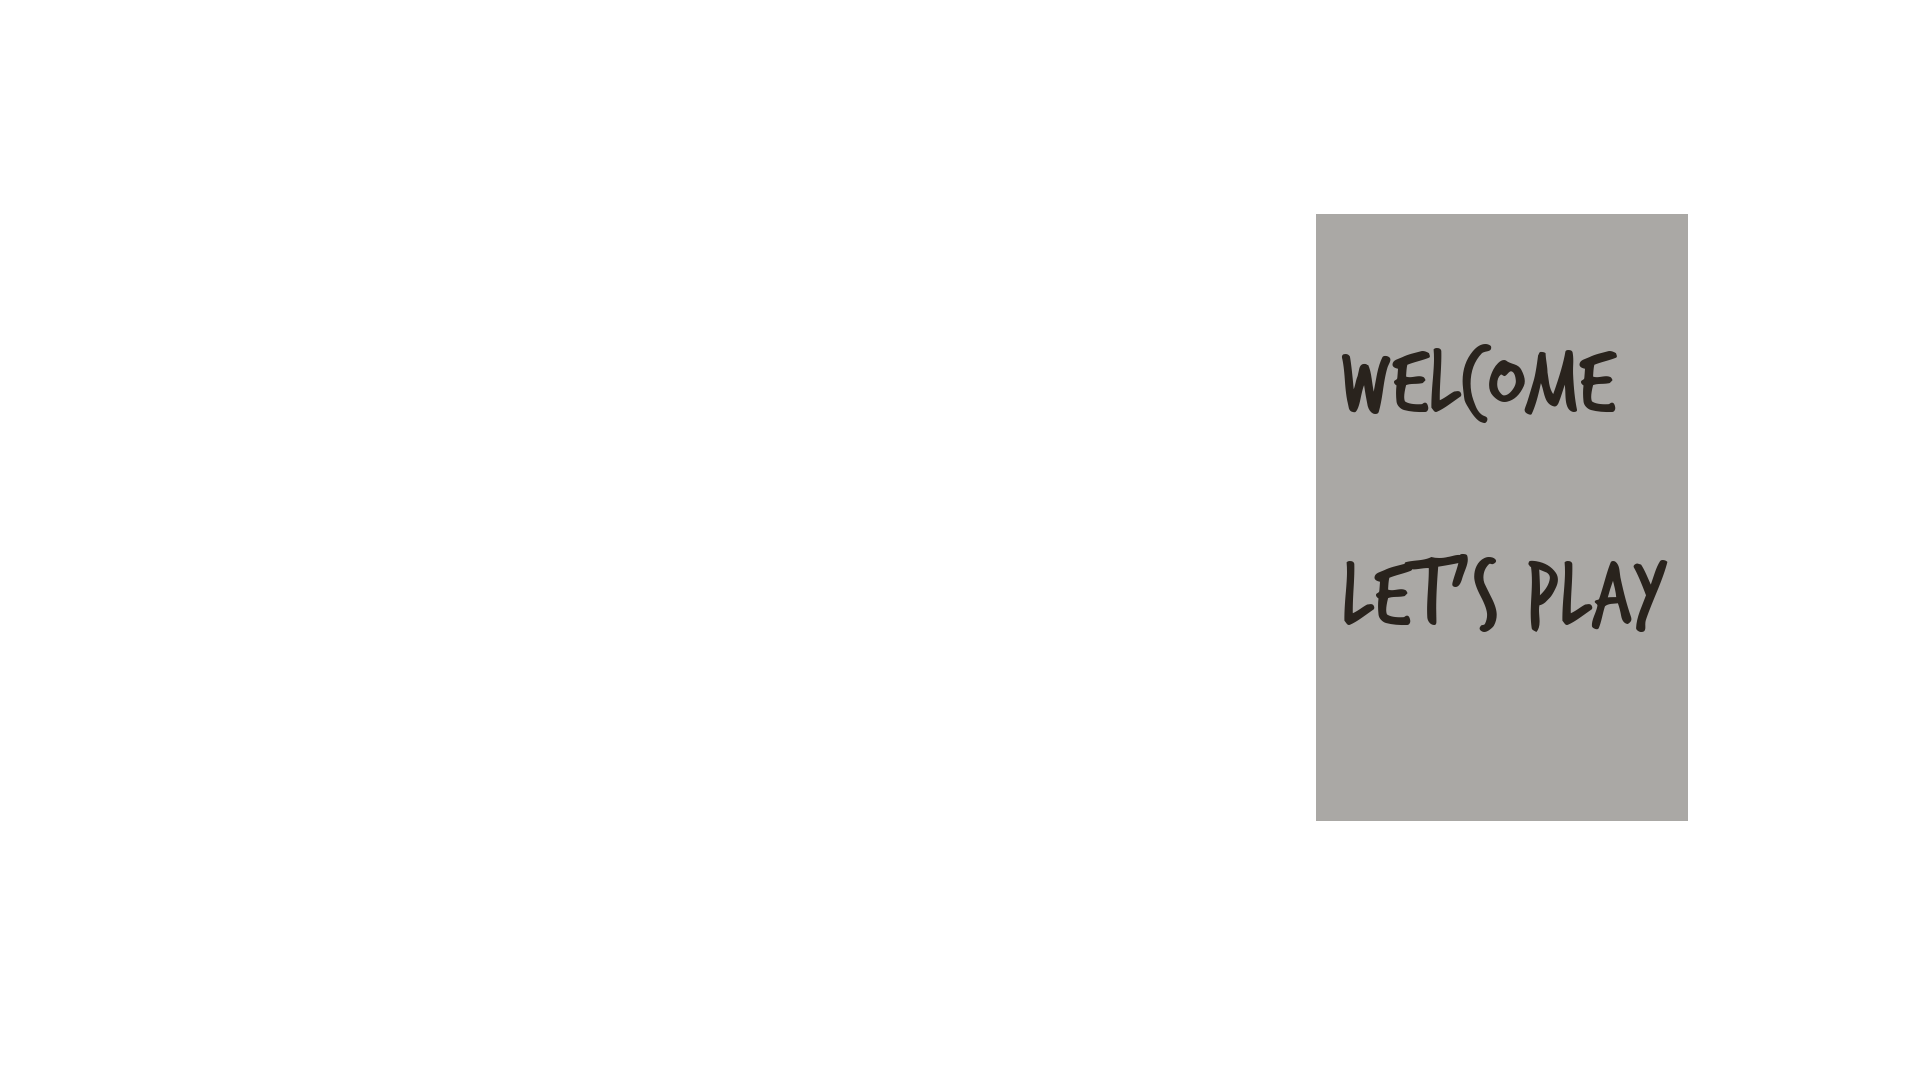
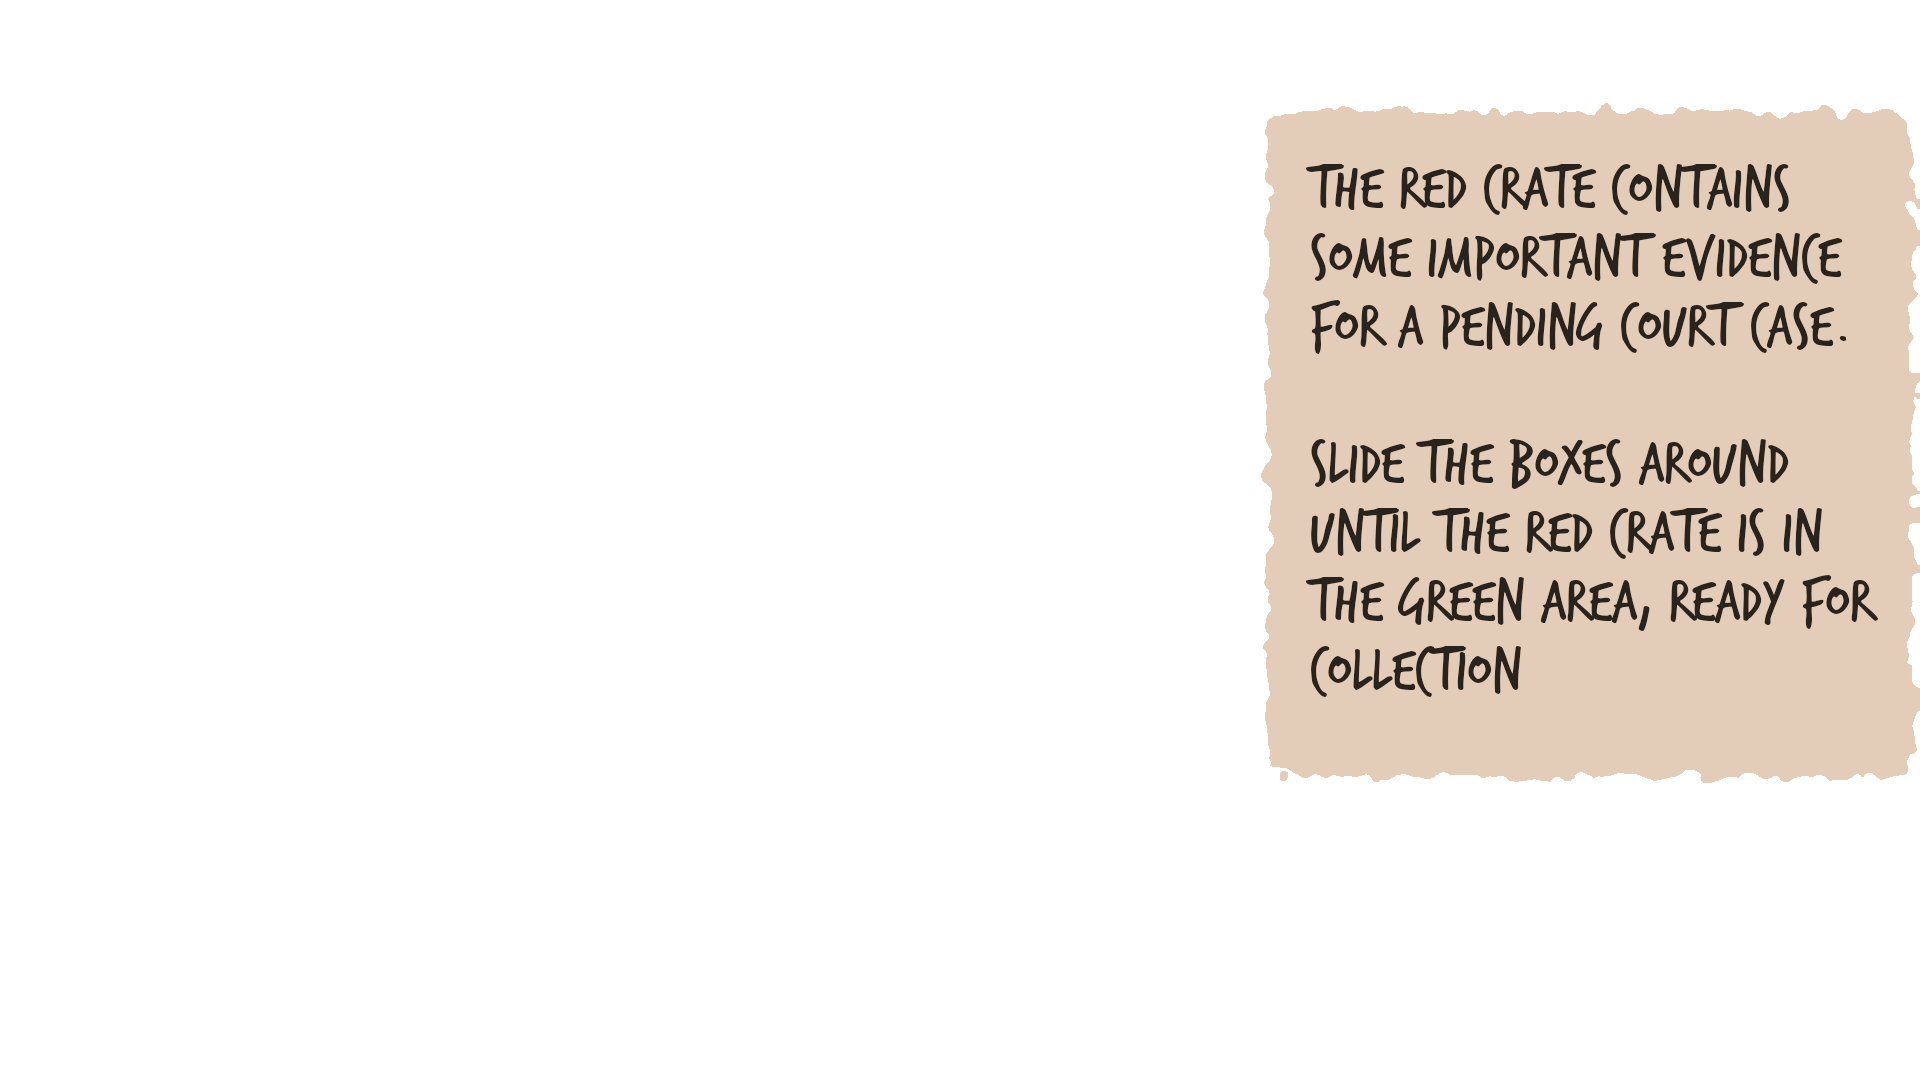
Location 22

Changed region(s): [[0.6562, 0.0917, 1.0, 0.7639]]

diff --git a/mini_game_003/game_class.py b/mini_game_003/game_class.py
@@ -4,6 +4,8 @@ import pygame
 
 from mini_game_class import MiniGame
 
+# TODO: Show the target area (green? - see text for location 22)
+
 
 class Button:
     """
